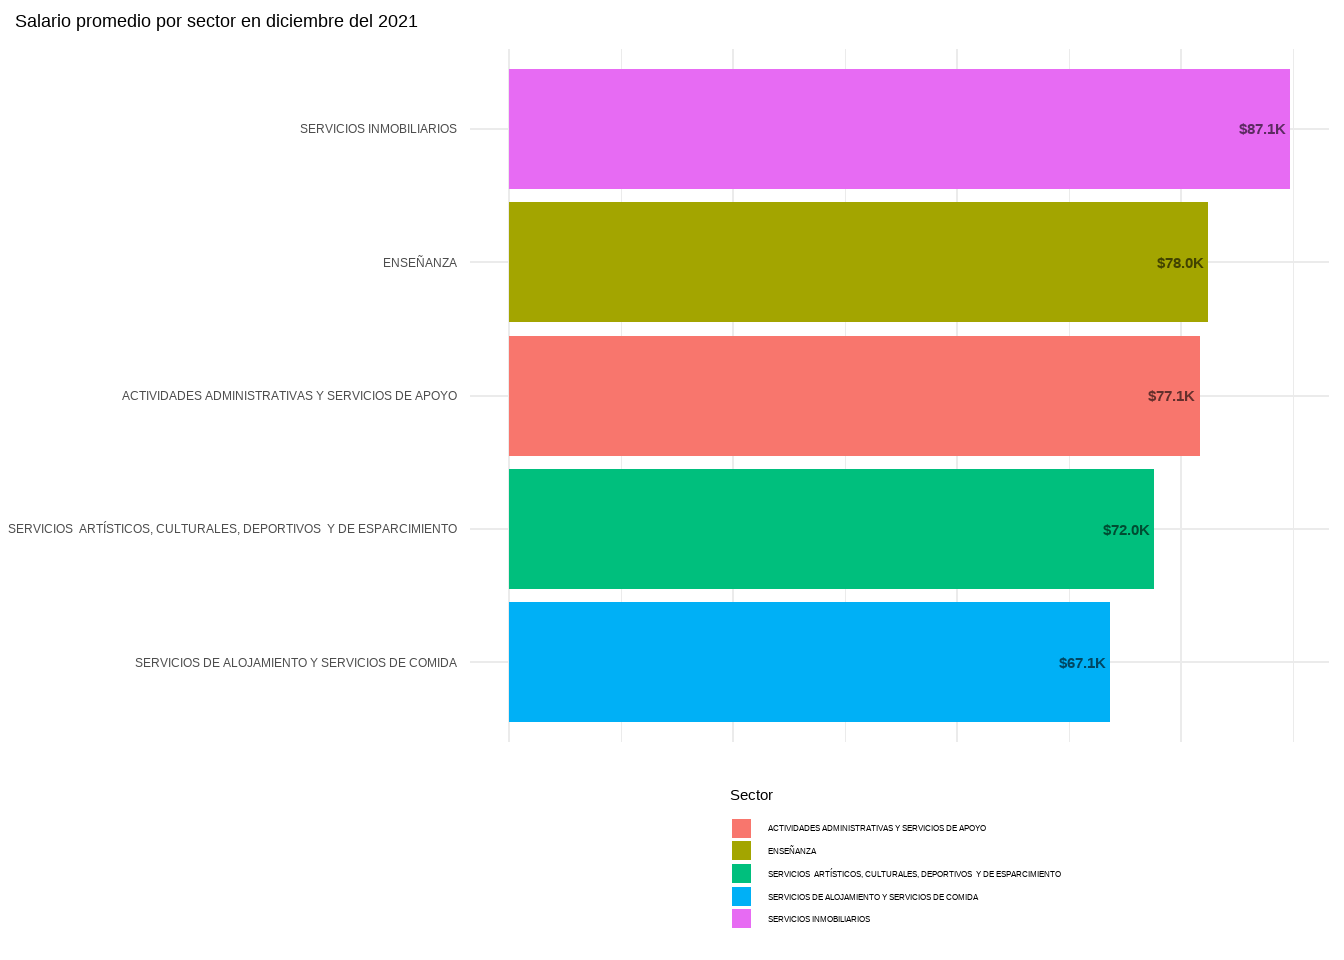
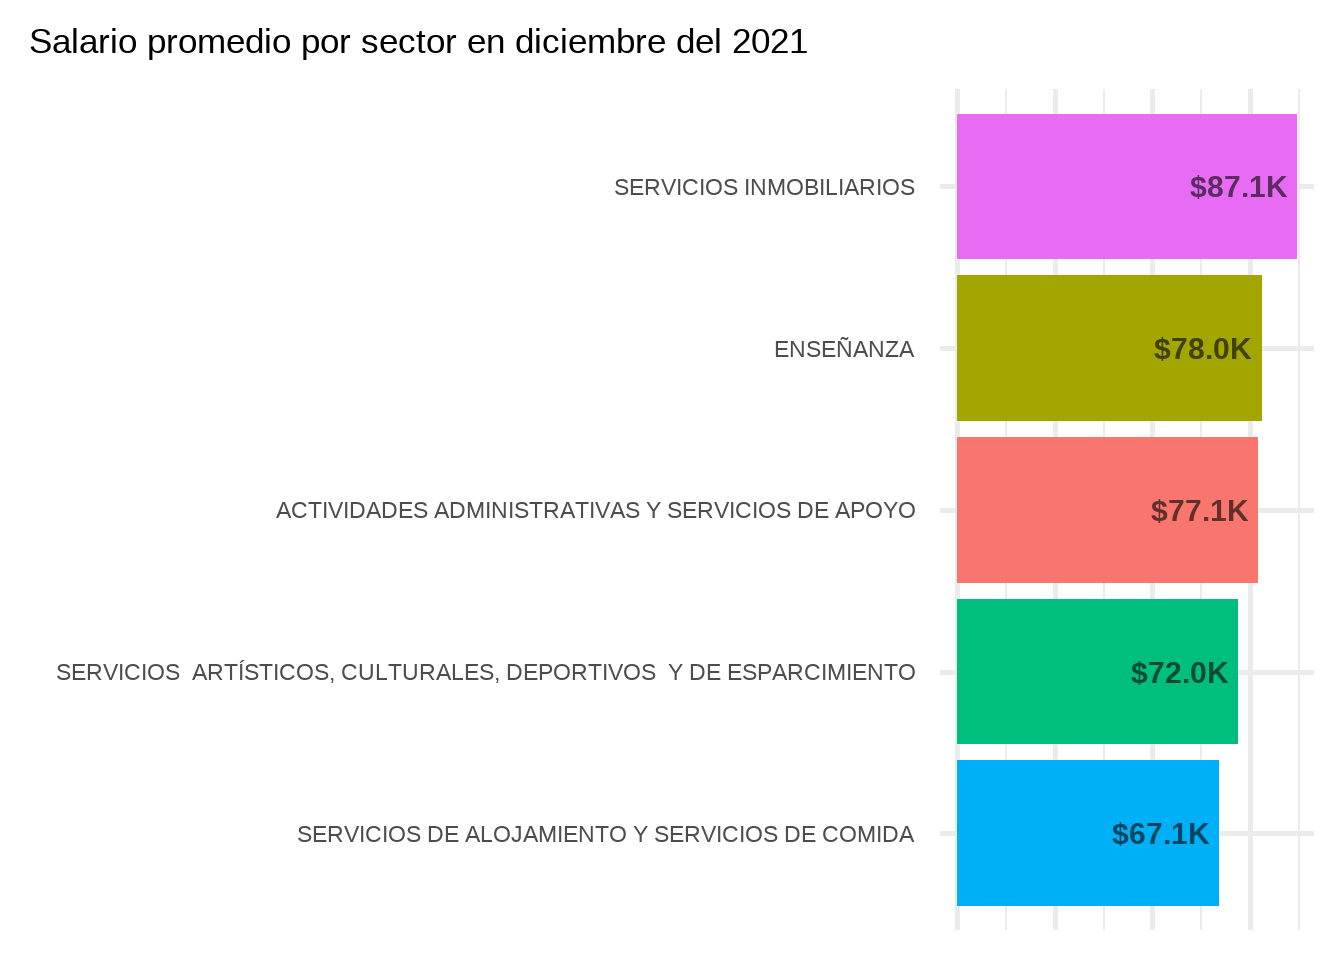
update

diff --git a/_site/posts/post-with-code/index.html b/_site/posts/post-with-code/index.html
@@ -483,9 +483,6 @@ code span.wa { color: #60a0b0; font-weight: bold; font-style: italic; } /* Warni
 <span id="cb18-42"><a href="#cb18-42" aria-hidden="true" tabindex="-1"></a></span>
 <span id="cb18-43"><a href="#cb18-43" aria-hidden="true" tabindex="-1"></a><span class="fu">animate</span>(anim, <span class="at">width =</span> <span class="dv">700</span>, <span class="at">height =</span> <span class="dv">500</span>, </span>
 <span id="cb18-44"><a href="#cb18-44" aria-hidden="true" tabindex="-1"></a>        <span class="at">fps =</span> <span class="dv">25</span>, <span class="at">duration =</span> <span class="dv">40</span>, <span class="at">rewind =</span> <span class="cn">FALSE</span>)</span></code><button title="Copiar al portapapeles" class="code-copy-button"><i class="bi"></i></button></pre></div>
-<div class="cell-output-display">
-<p><img src="index_files/figure-html/animación%205%20sectores-1.gif" class="img-fluid"></p>
-</div>
 </div>
 <p>En este gráfico podemos observar que de los 5 sectores con menor salario, 4 se mantienen históricamente (entre ellos el sector de actividades relacionadas a la enseñanza).</p>
 <p>Veamos cómo evolucionaron los salarios en cada sector usando otra alternativa. Para esto voy a hacer una de mis visualizaciones favoritas… una <em>“dumbbell chart”</em> (aún no encuentro una traducción que me convenza… ¿gráfico de mancuernas? ¿de pesas?). El objetivo de esta visualización es poder <strong>comparar</strong> el crecimiento del salario promedio en cada sector desde el 2018 al 2021.</p>
@@ -581,7 +578,7 @@ code span.wa { color: #60a0b0; font-weight: bold; font-style: italic; } /* Warni
 </div>
 </div>
 <p>Inicialmente podemos hacer uso de los IDs de sectores identificados anteriormente para el diciembre del 2021. Para esta fecha los 5 sectores con menor salario se identifican por las letras: I, P, N, L, R. Usemos esta información para realizar los filtros correspondientes.</p>
-<div class="cell">
+<div class="cell" data-fig.dim="[9,8]">
 <div class="sourceCode cell-code" id="cb25"><pre class="sourceCode r code-with-copy"><code class="sourceCode r"><span id="cb25-1"><a href="#cb25-1" aria-hidden="true" tabindex="-1"></a><span class="co"># volvemos a cargar el diccionario de clae/letras</span></span>
 <span id="cb25-2"><a href="#cb25-2" aria-hidden="true" tabindex="-1"></a><span class="co"># pero esta vez no limpiamos el dataset</span></span>
 <span id="cb25-3"><a href="#cb25-3" aria-hidden="true" tabindex="-1"></a>dicc_clae <span class="ot">&lt;-</span> <span class="fu">read_csv</span>(<span class="st">"https://cdn.produccion.gob.ar/cdn-cep/datos-por-departamento/diccionario_clae2.csv"</span>)</span>
@@ -605,21 +602,19 @@ code span.wa { color: #60a0b0; font-weight: bold; font-style: italic; } /* Warni
 <span id="cb25-21"><a href="#cb25-21" aria-hidden="true" tabindex="-1"></a>            <span class="at">hjust =</span> <span class="fl">1.1</span>, </span>
 <span id="cb25-22"><a href="#cb25-22" aria-hidden="true" tabindex="-1"></a>            <span class="at">fontface =</span> <span class="st">"bold"</span>,</span>
 <span id="cb25-23"><a href="#cb25-23" aria-hidden="true" tabindex="-1"></a>            <span class="at">alpha =</span> .<span class="dv">6</span>,</span>
-<span id="cb25-24"><a href="#cb25-24" aria-hidden="true" tabindex="-1"></a>            <span class="at">size =</span> <span class="dv">3</span>) <span class="sc">+</span></span>
+<span id="cb25-24"><a href="#cb25-24" aria-hidden="true" tabindex="-1"></a>            <span class="at">size =</span> <span class="dv">8</span>) <span class="sc">+</span></span>
 <span id="cb25-25"><a href="#cb25-25" aria-hidden="true" tabindex="-1"></a>  <span class="fu">coord_flip</span>() <span class="sc">+</span></span>
 <span id="cb25-26"><a href="#cb25-26" aria-hidden="true" tabindex="-1"></a>  <span class="fu">ggtitle</span>(<span class="st">"Salario promedio por actividad/clae en diciembre del 2021"</span>)<span class="sc">+</span></span>
 <span id="cb25-27"><a href="#cb25-27" aria-hidden="true" tabindex="-1"></a>  <span class="fu">labs</span>(<span class="at">x =</span> <span class="cn">NULL</span>, <span class="at">y =</span> <span class="cn">NULL</span>, <span class="at">fill =</span> <span class="st">"Sector"</span>) <span class="sc">+</span></span>
 <span id="cb25-28"><a href="#cb25-28" aria-hidden="true" tabindex="-1"></a>  <span class="fu">guides</span>(<span class="at">x =</span> <span class="st">"none"</span>) <span class="sc">+</span></span>
-<span id="cb25-29"><a href="#cb25-29" aria-hidden="true" tabindex="-1"></a>  <span class="fu">theme_minimal</span>() <span class="sc">+</span></span>
+<span id="cb25-29"><a href="#cb25-29" aria-hidden="true" tabindex="-1"></a>  <span class="fu">theme_minimal</span>(<span class="at">base_size =</span> <span class="dv">22</span>) <span class="sc">+</span></span>
 <span id="cb25-30"><a href="#cb25-30" aria-hidden="true" tabindex="-1"></a>  <span class="fu">theme</span>(</span>
 <span id="cb25-31"><a href="#cb25-31" aria-hidden="true" tabindex="-1"></a>    <span class="at">legend.position =</span> <span class="st">"bottom"</span>,</span>
 <span id="cb25-32"><a href="#cb25-32" aria-hidden="true" tabindex="-1"></a>    <span class="at">legend.direction =</span> <span class="st">"vertical"</span>,</span>
-<span id="cb25-33"><a href="#cb25-33" aria-hidden="true" tabindex="-1"></a>    <span class="at">legend.text =</span> <span class="fu">element_text</span>(<span class="at">size =</span> <span class="dv">6</span>),</span>
-<span id="cb25-34"><a href="#cb25-34" aria-hidden="true" tabindex="-1"></a>    <span class="at">legend.key.size =</span> <span class="fu">unit</span>(<span class="dv">3</span>,<span class="st">'mm'</span>),</span>
-<span id="cb25-35"><a href="#cb25-35" aria-hidden="true" tabindex="-1"></a>    <span class="at">plot.title.position =</span> <span class="st">"plot"</span></span>
-<span id="cb25-36"><a href="#cb25-36" aria-hidden="true" tabindex="-1"></a>  )</span></code><button title="Copiar al portapapeles" class="code-copy-button"><i class="bi"></i></button></pre></div>
+<span id="cb25-33"><a href="#cb25-33" aria-hidden="true" tabindex="-1"></a>    <span class="at">plot.title.position =</span> <span class="st">"plot"</span></span>
+<span id="cb25-34"><a href="#cb25-34" aria-hidden="true" tabindex="-1"></a>  )</span></code><button title="Copiar al portapapeles" class="code-copy-button"><i class="bi"></i></button></pre></div>
 <div class="cell-output-display">
-<p><img src="index_files/figure-html/análisis%20por%20actividad-1.png" class="img-fluid" width="672"></p>
+<p><img src="index_files/figure-html/análisis%20por%20actividad-1.png" class="img-fluid" width="864"></p>
 </div>
 </div>
 <p>Comparemos con la agrupación por sectores (que ya habíamos calculado anteriormente).</p>
@@ -642,19 +637,16 @@ code span.wa { color: #60a0b0; font-weight: bold; font-style: italic; } /* Warni
 <span id="cb26-16"><a href="#cb26-16" aria-hidden="true" tabindex="-1"></a>                                       <span class="at">accuracy =</span> .<span class="dv">1</span>)), </span>
 <span id="cb26-17"><a href="#cb26-17" aria-hidden="true" tabindex="-1"></a>            <span class="at">hjust =</span> <span class="fl">1.1</span>, </span>
 <span id="cb26-18"><a href="#cb26-18" aria-hidden="true" tabindex="-1"></a>            <span class="at">fontface =</span> <span class="st">"bold"</span>,</span>
-<span id="cb26-19"><a href="#cb26-19" aria-hidden="true" tabindex="-1"></a>            <span class="at">alpha =</span> .<span class="dv">6</span>) <span class="sc">+</span></span>
-<span id="cb26-20"><a href="#cb26-20" aria-hidden="true" tabindex="-1"></a>  <span class="fu">coord_flip</span>() <span class="sc">+</span></span>
-<span id="cb26-21"><a href="#cb26-21" aria-hidden="true" tabindex="-1"></a>  <span class="fu">ggtitle</span>(<span class="st">"Salario promedio por sector en diciembre del 2021"</span>)<span class="sc">+</span></span>
-<span id="cb26-22"><a href="#cb26-22" aria-hidden="true" tabindex="-1"></a>  <span class="fu">labs</span>(<span class="at">x =</span> <span class="cn">NULL</span>, <span class="at">y =</span> <span class="cn">NULL</span>, <span class="at">fill =</span> <span class="st">"Sector"</span>) <span class="sc">+</span></span>
-<span id="cb26-23"><a href="#cb26-23" aria-hidden="true" tabindex="-1"></a>  <span class="fu">guides</span>(<span class="at">x =</span> <span class="st">"none"</span>) <span class="sc">+</span></span>
-<span id="cb26-24"><a href="#cb26-24" aria-hidden="true" tabindex="-1"></a>  <span class="fu">theme_minimal</span>() <span class="sc">+</span></span>
-<span id="cb26-25"><a href="#cb26-25" aria-hidden="true" tabindex="-1"></a>  <span class="fu">theme</span>(</span>
-<span id="cb26-26"><a href="#cb26-26" aria-hidden="true" tabindex="-1"></a>    <span class="at">legend.position =</span> <span class="st">"bottom"</span>,</span>
-<span id="cb26-27"><a href="#cb26-27" aria-hidden="true" tabindex="-1"></a>    <span class="at">legend.direction =</span> <span class="st">"vertical"</span>,</span>
-<span id="cb26-28"><a href="#cb26-28" aria-hidden="true" tabindex="-1"></a>    <span class="at">legend.text =</span> <span class="fu">element_text</span>(<span class="at">size =</span> <span class="dv">6</span>),</span>
-<span id="cb26-29"><a href="#cb26-29" aria-hidden="true" tabindex="-1"></a>    <span class="at">legend.key.size =</span> <span class="fu">unit</span>(<span class="dv">3</span>,<span class="st">'mm'</span>),</span>
-<span id="cb26-30"><a href="#cb26-30" aria-hidden="true" tabindex="-1"></a>    <span class="at">plot.title.position =</span> <span class="st">"plot"</span></span>
-<span id="cb26-31"><a href="#cb26-31" aria-hidden="true" tabindex="-1"></a>  )</span></code><button title="Copiar al portapapeles" class="code-copy-button"><i class="bi"></i></button></pre></div>
+<span id="cb26-19"><a href="#cb26-19" aria-hidden="true" tabindex="-1"></a>            <span class="at">alpha =</span> .<span class="dv">6</span>,</span>
+<span id="cb26-20"><a href="#cb26-20" aria-hidden="true" tabindex="-1"></a>            <span class="at">size =</span> <span class="dv">8</span>) <span class="sc">+</span></span>
+<span id="cb26-21"><a href="#cb26-21" aria-hidden="true" tabindex="-1"></a>  <span class="fu">coord_flip</span>() <span class="sc">+</span></span>
+<span id="cb26-22"><a href="#cb26-22" aria-hidden="true" tabindex="-1"></a>  <span class="fu">ggtitle</span>(<span class="st">"Salario promedio por sector en diciembre del 2021"</span>)<span class="sc">+</span></span>
+<span id="cb26-23"><a href="#cb26-23" aria-hidden="true" tabindex="-1"></a>  <span class="fu">labs</span>(<span class="at">x =</span> <span class="cn">NULL</span>, <span class="at">y =</span> <span class="cn">NULL</span>) <span class="sc">+</span></span>
+<span id="cb26-24"><a href="#cb26-24" aria-hidden="true" tabindex="-1"></a>  <span class="fu">guides</span>(<span class="at">x =</span> <span class="st">"none"</span>, <span class="at">fill =</span> <span class="st">"none"</span>) <span class="sc">+</span></span>
+<span id="cb26-25"><a href="#cb26-25" aria-hidden="true" tabindex="-1"></a>  <span class="fu">theme_minimal</span>(<span class="at">base_size =</span> <span class="dv">22</span>) <span class="sc">+</span></span>
+<span id="cb26-26"><a href="#cb26-26" aria-hidden="true" tabindex="-1"></a>  <span class="fu">theme</span>(</span>
+<span id="cb26-27"><a href="#cb26-27" aria-hidden="true" tabindex="-1"></a>    <span class="at">plot.title.position =</span> <span class="st">"plot"</span></span>
+<span id="cb26-28"><a href="#cb26-28" aria-hidden="true" tabindex="-1"></a>  )</span></code><button title="Copiar al portapapeles" class="code-copy-button"><i class="bi"></i></button></pre></div>
 <div class="cell-output-display">
 <p><img src="index_files/figure-html/unnamed-chunk-1-1.png" class="img-fluid" width="672"></p>
 </div>

diff --git a/_site/index.html b/_site/index.html
@@ -157,7 +157,7 @@ ul.task-list{list-style: none;}
 
 <div class="quarto-listing quarto-listing-container-default" id="listing-listing">
 <div class="list quarto-listing-default">
-<div class="quarto-post image-right" data-index="0" data-categories="análisis,R,código" data-listing-date-sort="1659063600000" data-listing-file-modified-sort="1659272539935" data-listing-reading-time-sort="15.765">
+<div class="quarto-post image-right" data-index="0" data-categories="análisis,R,código" data-listing-date-sort="1659063600000" data-listing-file-modified-sort="1659277991284" data-listing-reading-time-sort="15.675">
 <div class="thumbnail">
 <p><a href="./posts/post-with-code/index.html"> <img src="./posts/post-with-code/mapa.png" class="thumnail-image"> </a></p>
 </div>
